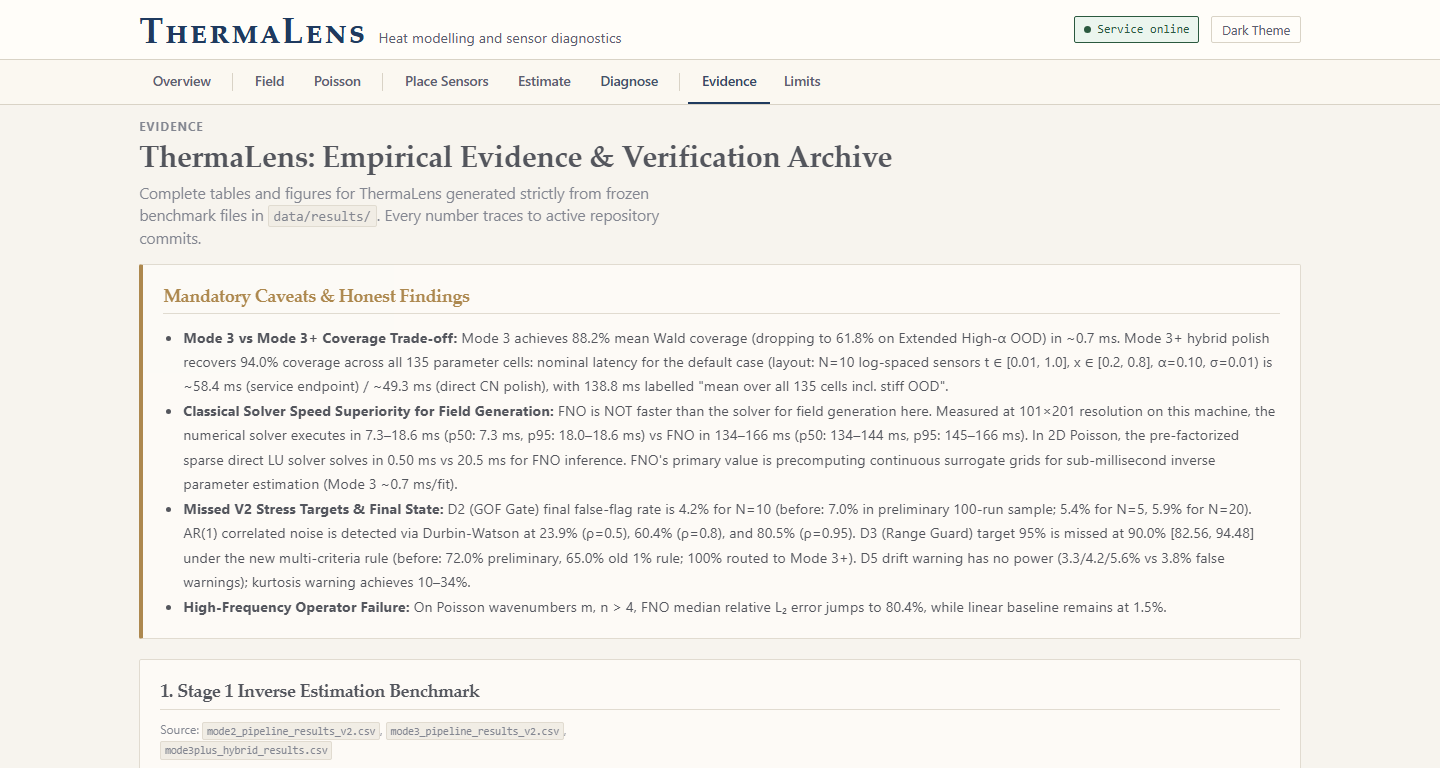
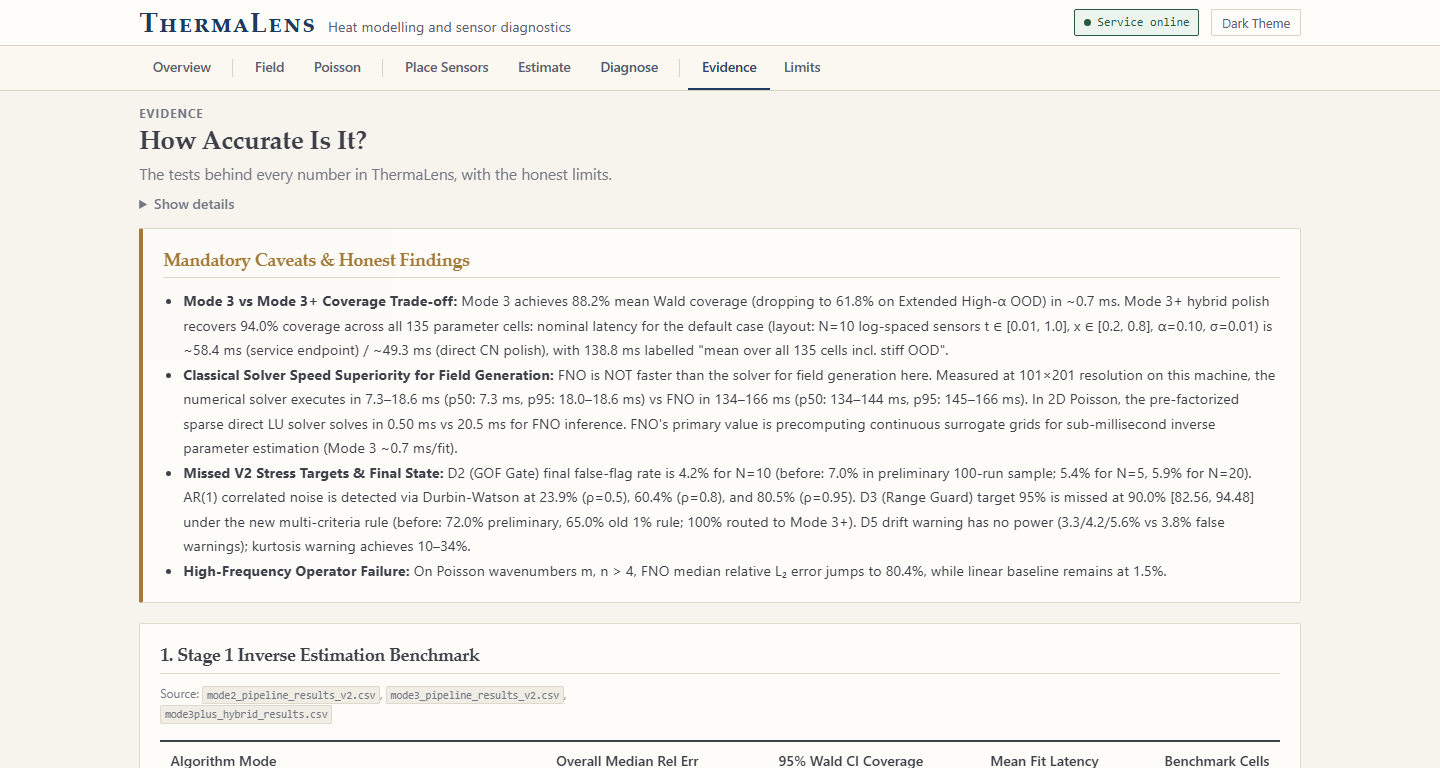
Text and size polish: top bar brand 28px/24px, H1 26px/22px, Evidence and Limits friendly titles and Show details

diff --git a/service/static/index.html b/service/static/index.html
@@ -5,7 +5,7 @@
   <meta name="viewport" content="width=device-width, initial-scale=1.0">
   <title>ThermaLens — Thermal PDE Inference &amp; Diagnostics Instrument</title>
   <meta name="description" content="Production-grade physical parameter estimation, multi-hypothesis sensor anomaly diagnostics, and neural operator PDE inference.">
-  <link rel="stylesheet" href="style.css?v=thermalens-v25">
+  <link rel="stylesheet" href="style.css?v=thermalens-v26">
 </head>
 <body>
 
@@ -1642,8 +1642,14 @@
     <section id="view-evidence" class="page-view" aria-labelledby="heading-evidence">
       <div class="page-intro">
         <span class="page-eyebrow">EVIDENCE</span>
-        <h1 id="heading-evidence">ThermaLens: Empirical Evidence &amp; Verification Archive</h1>
-        <p class="page-desc">Complete tables and figures for ThermaLens generated strictly from frozen benchmark files in <code>data/results/</code>. Every number traces to active repository commits.</p>
+        <h1 id="heading-evidence">How Accurate Is It?</h1>
+        <p class="page-desc">The tests behind every number in ThermaLens, with the honest limits.</p>
+        <details class="technical-details">
+          <summary class="technical-details-summary">Show details</summary>
+          <div class="technical-details-body">
+            ThermaLens: Empirical Evidence &amp; Verification Archive &mdash; Complete tables and figures generated strictly from frozen benchmark files in <code>data/results/</code>. Every number traces to active repository commits.
+          </div>
+        </details>
       </div>
 
       <!-- Caveat Highlights Strip -->
@@ -2149,8 +2155,14 @@
     <section id="view-limits" class="page-view" aria-labelledby="heading-limits">
       <div class="page-intro">
         <span class="page-eyebrow">LIMITS</span>
-        <h1 id="heading-limits">Operational Boundaries &amp; Mathematical Limits</h1>
-        <p class="page-desc">Clear, honest statement of conditions where the digital twin cannot or should not be deployed, linked directly to verified empirical evidence.</p>
+        <h1 id="heading-limits">What It Can't Do</h1>
+        <p class="page-desc">Where ThermaLens is reliable, where it is not, and what to do about it.</p>
+        <details class="technical-details">
+          <summary class="technical-details-summary">Show details</summary>
+          <div class="technical-details-body">
+            Operational Boundaries &amp; Mathematical Limits &mdash; Clear, honest statement of conditions where the digital twin cannot or should not be deployed, linked directly to verified empirical evidence.
+          </div>
+        </details>
       </div>
 
       <!-- Plain Language Operational Limits -->
@@ -2258,6 +2270,6 @@
     </div>
   </footer>
 
-  <script src="app.js?v=thermalens-v25"></script>
+  <script src="app.js?v=thermalens-v26"></script>
 </body>
 </html>

diff --git a/service/static/style.css b/service/static/style.css
@@ -38,9 +38,9 @@
   --transition-fast: 150ms ease-out;
 
   /* Shared Type Scale Tokens (Base 16px, rem units) */
-  --fs-brand: 2.25rem;                                /* 36px - clearly larger than H1 */
+  --fs-brand: 1.75rem;                                /* 28px - top bar brand desktop */
   --fs-eyebrow: 0.75rem;                              /* 12px uppercase */
-  --fs-h1: clamp(1.625rem, 1.3rem + 0.8vw, 1.875rem); /* 26-30px */
+  --fs-h1: clamp(1.375rem, 1.25rem + 0.45vw, 1.625rem); /* 22px mobile (390px), 26px desktop (1440px) */
   --fs-subtitle: 0.96875rem;                          /* 15.5px (15-16px) */
   --fs-details: 0.875rem;                             /* 14px */
   --fs-h2: 1.25rem;                                   /* 20px section headings */
@@ -203,7 +203,7 @@ code {
 .header-inner {
   max-width: var(--max-width);
   margin: 0 auto;
-  padding: 0.6rem 1.2rem;
+  padding: 0.45rem 1.2rem;
   display: flex;
   align-items: center;
   justify-content: space-between;
@@ -1849,7 +1849,7 @@ tr[id*="alpha"] td {
     width: 100%;
   }
   .brand-title {
-    font-size: 1.85rem;
+    font-size: 1.5rem; /* 24px mobile */
   }
   .brand-subtitle {
     font-size: 0.72rem;

diff --git a/tests/test_playwright_nav.py b/tests/test_playwright_nav.py
@@ -121,10 +121,17 @@ def test_type_scale_and_header_compaction_1440(live_server):
         tagline = page.locator(".brand-subtitle")
         assert tagline.inner_text().strip() == "Heat modelling and sensor diagnostics"
 
-        # Brand title font-size
+        # Brand title font-size: about 28px desktop
         brand_el = page.locator("#brand-link")
         brand_fs = float(brand_el.evaluate("el => parseFloat(window.getComputedStyle(el).fontSize)"))
-        assert brand_fs >= 32.0, f"Brand title {brand_fs}px should be prominent"
+        assert 27.0 <= brand_fs <= 29.0, f"Brand title {brand_fs}px should be about 28px on desktop"
+
+        # Top bar height must be compact
+        header_el = page.locator(".app-header")
+        header_box = header_el.bounding_box()
+        assert header_box is not None
+        assert header_box["height"] <= 65.0, f"Top bar height {header_box['height']}px should be compact (<= 65px)"
+        save_screenshot(header_el, "topbar_1440px.png")
 
         # 2. Navigation bar checks
         links = page.locator(".nav-link")
@@ -146,13 +153,30 @@ def test_type_scale_and_header_compaction_1440(live_server):
             view_elem = page.locator(f"#view-{p_info['hash']}")
             h1 = page.locator(f"#{p_info['h1_id']}")
 
-            # Measure H1 computed font size: must be between 26 and 30 px at 1440px width
+            # Measure H1 computed font size: 26px desktop (stays at 26-30px, max 26px)
             h1_fs = float(h1.evaluate("el => parseFloat(window.getComputedStyle(el).fontSize)"))
-            assert 26.0 <= h1_fs <= 30.05, f"Page {p_info['hash']} H1 font size {h1_fs}px not between 26 and 30 px"
+            assert 25.5 <= h1_fs <= 26.5, f"Page {p_info['hash']} H1 font size {h1_fs}px not ~26px"
 
-            # H1 must be clearly smaller than the brand name in the top bar on every page
-            assert h1_fs < brand_fs, f"Page {p_info['hash']} H1 {h1_fs}px not smaller than brand {brand_fs}px"
-            assert (brand_fs - h1_fs) >= 4.0, f"Page {p_info['hash']} difference {brand_fs - h1_fs}px not distinct enough"
+            # H1 must stay at or below the brand size minus 2px
+            assert h1_fs <= brand_fs - 1.9, f"Page {p_info['hash']} H1 {h1_fs}px not <= brand ({brand_fs}px) - 2px"
+
+            # Specific checks for Evidence page
+            if p_info["hash"] == "evidence":
+                assert h1.inner_text().strip() == "How Accurate Is It?"
+                sub = view_elem.locator(".page-desc")
+                assert sub.inner_text().strip() == "The tests behind every number in ThermaLens, with the honest limits."
+                det = view_elem.locator(".technical-details")
+                assert det.count() > 0
+                assert "ThermaLens: Empirical Evidence" in det.text_content()
+
+            # Specific checks for Limits page
+            if p_info["hash"] == "limits":
+                assert h1.inner_text().strip() == "What It Can't Do"
+                sub = view_elem.locator(".page-desc")
+                assert sub.inner_text().strip() == "Where ThermaLens is reliable, where it is not, and what to do about it."
+                det = view_elem.locator(".technical-details")
+                assert det.count() > 0
+                assert "Operational Boundaries & Mathematical Limits" in det.text_content()
 
             # Check header block (.page-intro): height must be at most about 140px tall at 1440px
             intro_el = view_elem.locator(".page-intro")
@@ -189,7 +213,7 @@ def test_type_scale_and_header_compaction_1440(live_server):
 
 
 def test_type_scale_mobile_390(live_server):
-    """Mobile 390x844 viewport: check H1 size between 24-28px, mobile menu, brand > H1, and 8 screenshots."""
+    """Mobile 390x844 viewport: check H1 size ~22px, brand ~24px (H1 <= brand - 2px), top bar, and 8 screenshots."""
     with sync_playwright() as p:
         browser = p.chromium.launch(headless=True)
         context = browser.new_context(viewport={"width": 390, "height": 844})
@@ -199,9 +223,13 @@ def test_type_scale_mobile_390(live_server):
         page.wait_for_load_state("domcontentloaded")
         page.wait_for_selector("#heading-overview", state="visible")
 
-        # Top bar brand on mobile
+        # Top bar brand on mobile: about 24px
         brand_el = page.locator("#brand-link")
         brand_fs = float(brand_el.evaluate("el => parseFloat(window.getComputedStyle(el).fontSize)"))
+        assert 23.0 <= brand_fs <= 25.0, f"Mobile brand title {brand_fs}px should be about 24px"
+
+        # Capture mobile top bar screenshot
+        save_screenshot(page.locator(".app-header"), "topbar_390px.png")
 
         # Verify mobile menu keeps group headers
         menu_btn = page.locator("#mobile-menu-btn")
@@ -228,11 +256,11 @@ def test_type_scale_mobile_390(live_server):
             h1 = page.locator(f"#{p_info['h1_id']}")
             h1_fs = float(h1.evaluate("el => parseFloat(window.getComputedStyle(el).fontSize)"))
 
-            # Must be between 24 and 28 px at 390px
-            assert 24.0 <= h1_fs <= 28.05, f"Page {p_info['hash']} mobile H1 font size {h1_fs}px not between 24 and 28 px"
+            # Must be ~22px at 390px
+            assert 21.5 <= h1_fs <= 22.5, f"Page {p_info['hash']} mobile H1 font size {h1_fs}px not ~22px"
 
-            # H1 must be smaller than brand title
-            assert h1_fs < brand_fs, f"Page {p_info['hash']} mobile H1 {h1_fs}px not smaller than brand {brand_fs}px"
+            # H1 must stay at or below brand size minus 2px
+            assert h1_fs <= brand_fs - 1.9, f"Page {p_info['hash']} mobile H1 {h1_fs}px not <= brand ({brand_fs}px) - 2px"
 
             # Capture screenshot of each page at 390px
             save_screenshot(page, f"{p_info['hash']}_390px.png")
